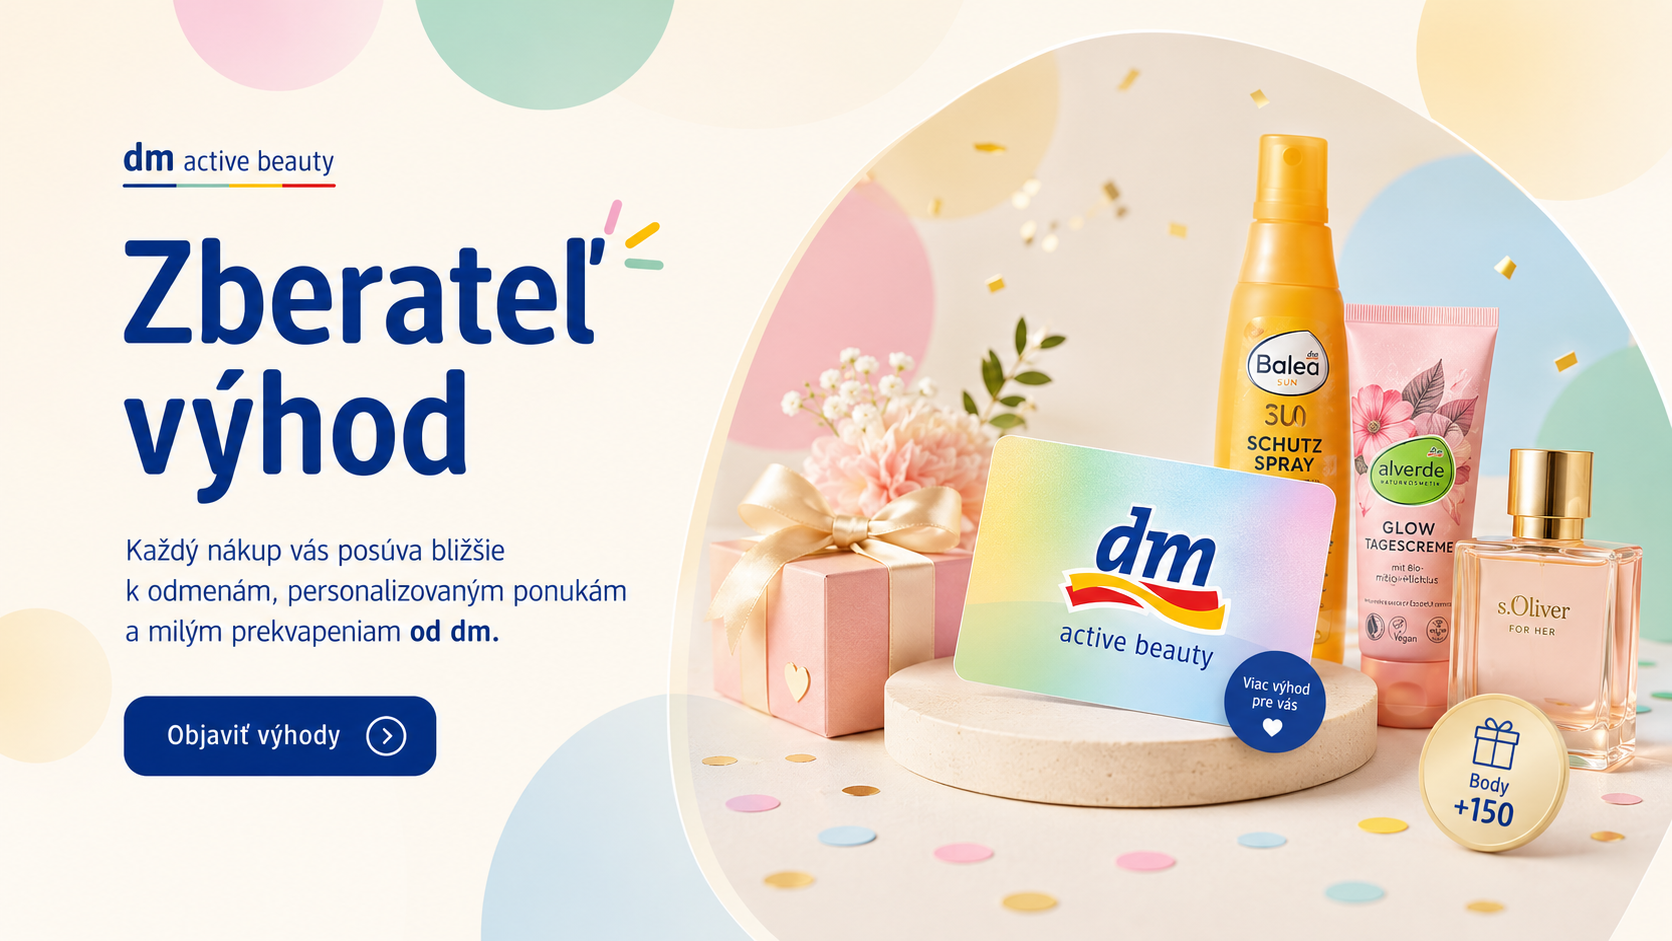
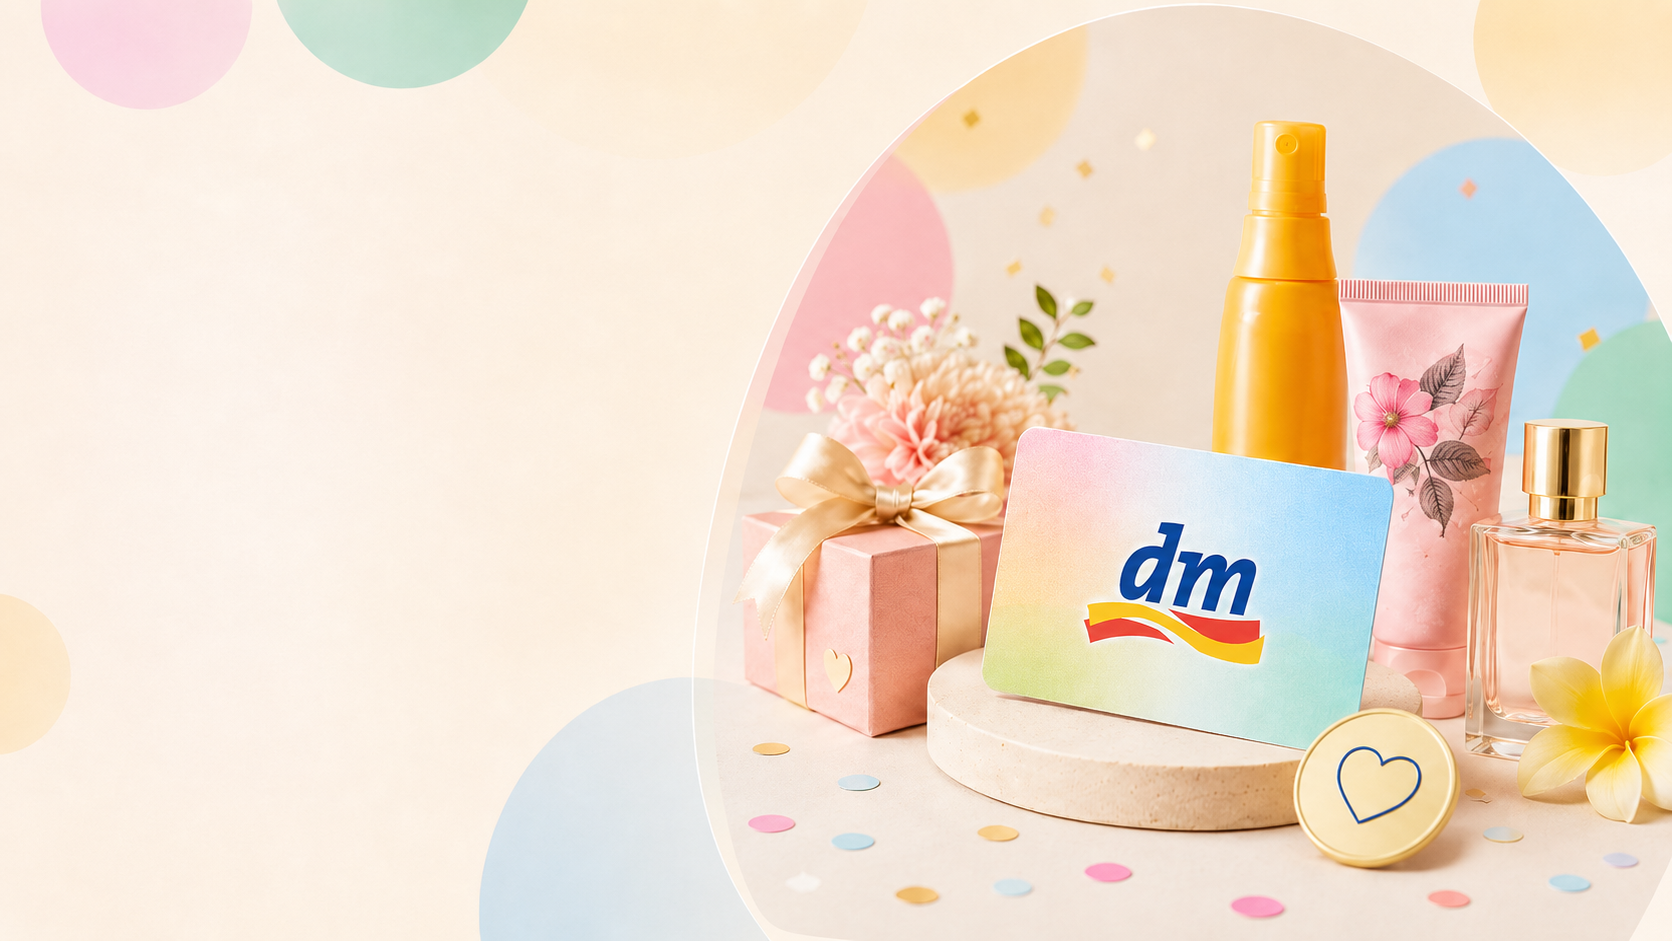
Persóna Zberateľ výhod — výmena vizuálu

diff --git a/prezentacia.html b/prezentacia.html
@@ -768,7 +768,7 @@
             <div class="pbody"><h3>Mestský typ</h3><p>25–50 r. Ostal v meste. Osvieženie, hydratácia, pikniky, „leto v parku a na balkóne".</p></div>
           </div>
           <div class="card persona">
-            <div class="photo" style="background-image:url('img-zberatel-vyhod.png');background-position:center 30%;"><span class="role">Vernosť</span></div>
+            <div class="photo" style="background-image:url('img-zberatel-vyhod.png');background-position:64% 42%;"><span class="role">Vernosť</span></div>
             <div class="pbody"><h3>Zberateľ výhod</h3><p>Naprieč vekom. Reaguje na body a personalizované zľavy. Srdce Sveta výhod DM.</p></div>
           </div>
         </div>
